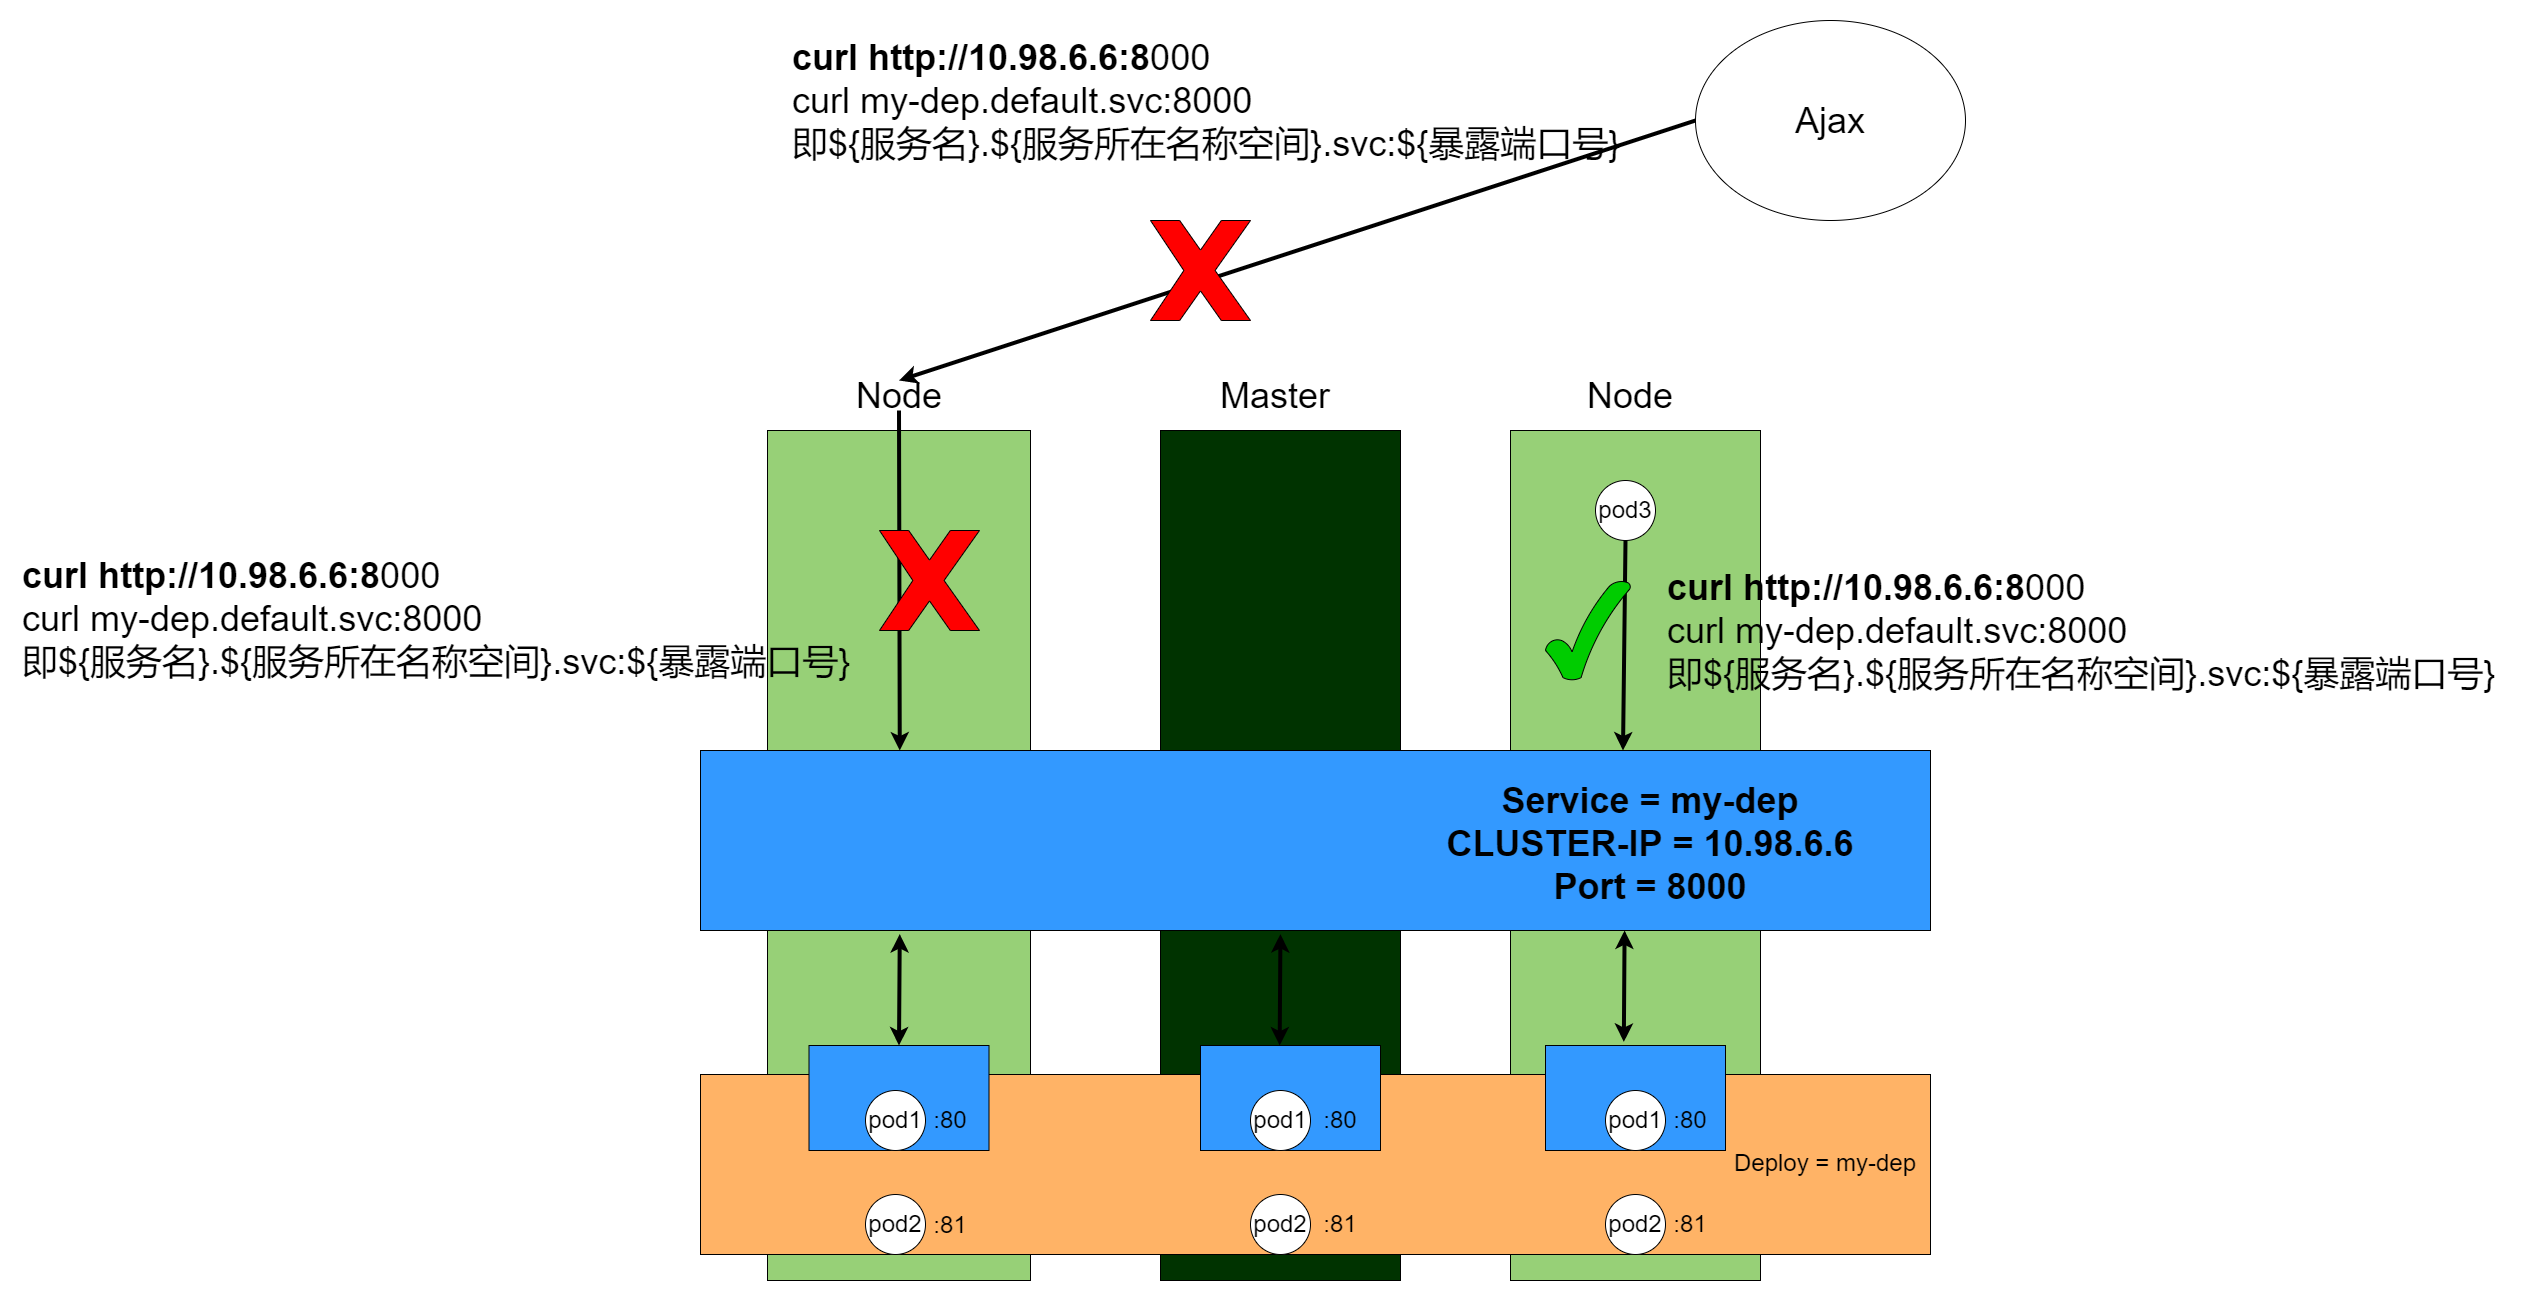
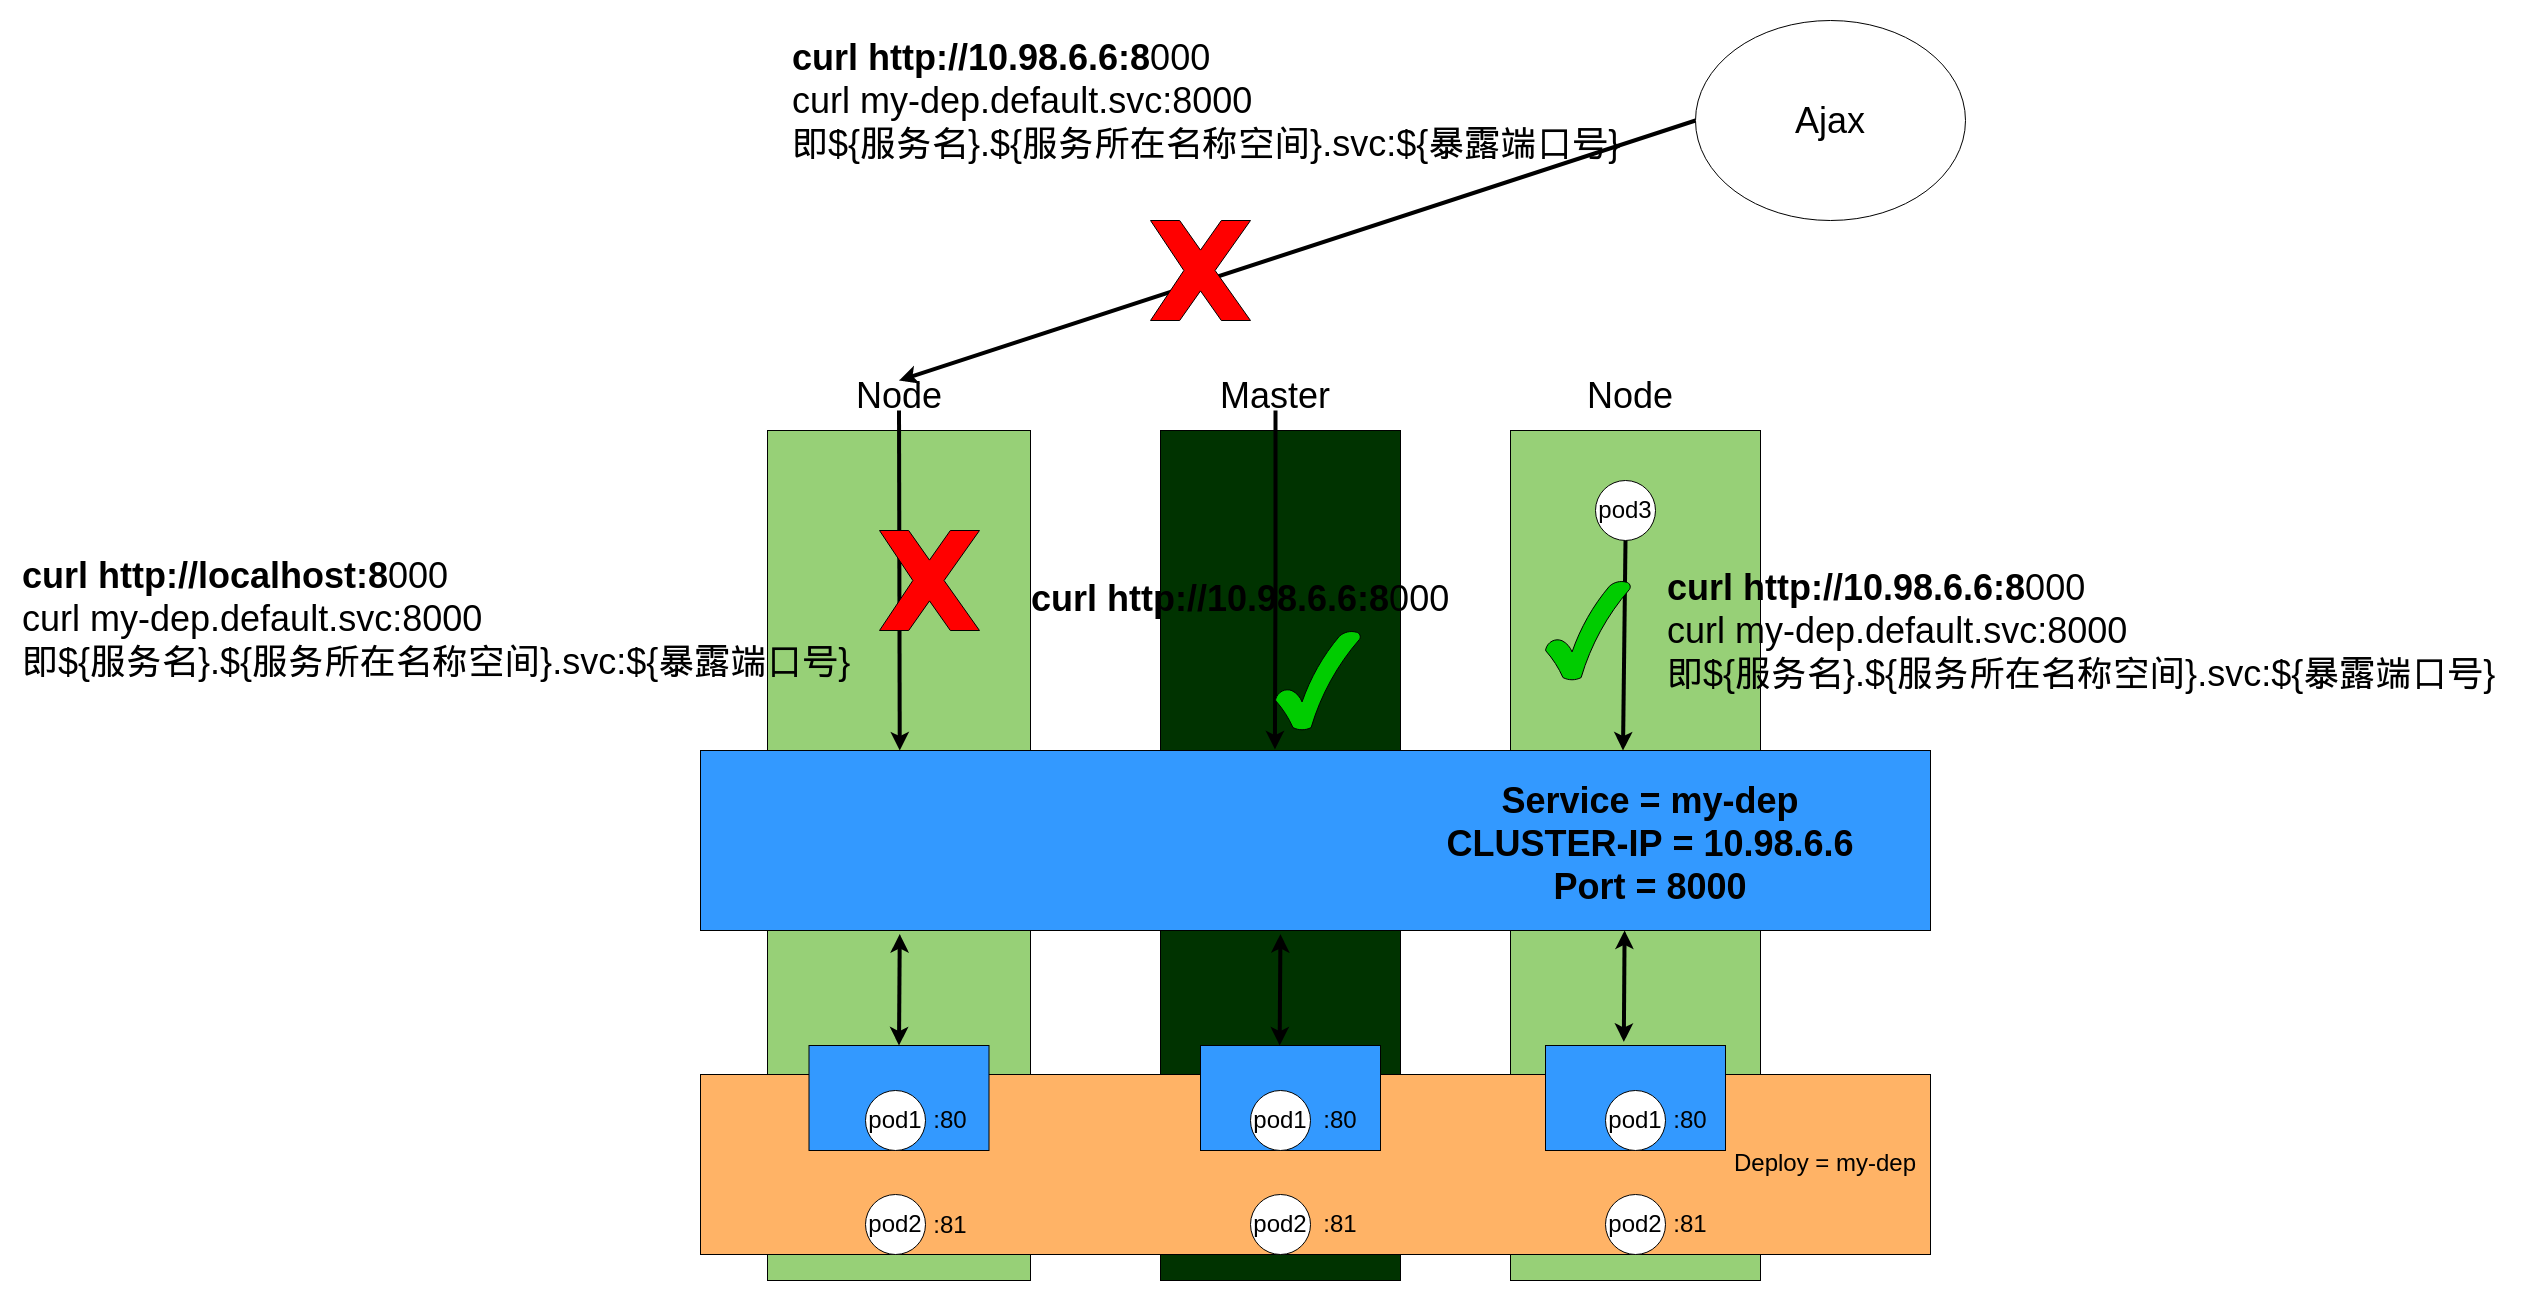
修改Service概念中的一处错误

diff --git a/src/main/mds/零散/04-Kubernets的对外暴露与存储.md b/src/main/mds/零散/04-Kubernets的对外暴露与存储.md
@@ -23,7 +23,9 @@
 
 负载均衡能理解，那什么是健康返回？其实就是Service会监控每个Pod1的状态，如果其中一个Pod1挂了，那么在Pod1自愈 或 故障转移 之前，Service不会将请求转发到这个挂了的Pod1。
 
-**值得注意的是：ClusterIP模式的Service，只允许Kubernetes环境内的容器进行访问。**如果在Kubernetes环境外（比如物理机本身、物理机以外的请求）进行访问，是不允许的。
+**值得注意的是：ClusterIP模式的Service，只允许Kubernetes环境内的容器进行访问。**如果在Kubernetes环境外（物理机以外的请求）进行访问，是不允许的。
+
+**即使是本机调用，也仅限于ClusterIP的方式，localhost和服务名的方式是不允许的**。
 
 那有什么好办法呢？我总不能整个环境都部署到Kubernetes环境里吧？这时候可以用NodePort模式：
 
